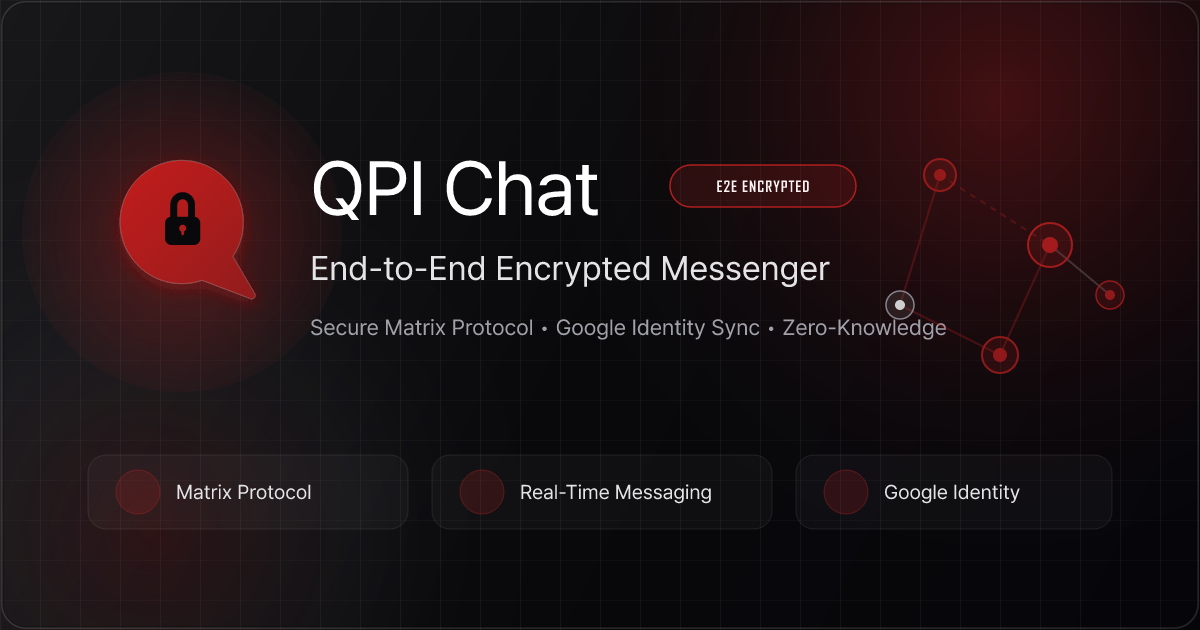
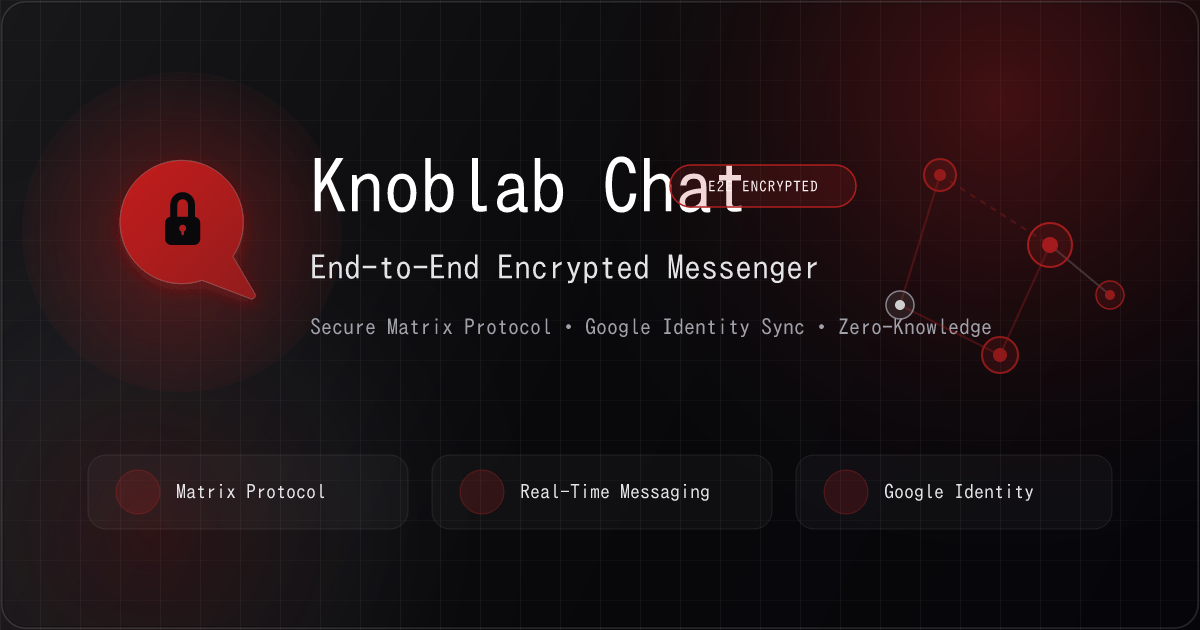
chore: remove branding
- Replaced "QPI Chat" and "QPI" with generic "Knoblab Chat" and "Knoblab" across the repository.
- Updated text in `index.html`, `manifest.json`, components (`Sidebar.tsx`, `Auth.tsx`, `Dashboard.tsx`), hooks, and README.
- Modified SVG branding images and regenerated corresponding PNG icons.

diff --git a/index.html b/index.html
@@ -8,22 +8,22 @@
   <link rel="manifest" href="/manifest.json" />
   <meta name="viewport" content="width=device-width, initial-scale=1.0" />
   <meta name="theme-color" content="#09090b" />
-  <title>QPI Chat — End-to-End Encrypted Messenger</title>
+  <title>Knoblab Chat — End-to-End Encrypted Messenger</title>
 
   <!-- Open Graph / Facebook / KakaoTalk / Slack / Discord -->
   <meta property="og:type" content="website" />
-  <meta property="og:site_name" content="QPI Chat" />
-  <meta property="og:title" content="QPI Chat — End-to-End Encrypted Messenger" />
+  <meta property="og:site_name" content="Knoblab Chat" />
+  <meta property="og:title" content="Knoblab Chat — End-to-End Encrypted Messenger" />
   <meta property="og:description"
     content="Secure, real-time Matrix protocol messenger and zero-knowledge encryption." />
   <meta property="og:image" content="/og-image.svg" />
   <meta property="og:image:width" content="1200" />
   <meta property="og:image:height" content="600" />
-  <meta property="og:image:alt" content="QPI Chat - End-to-End Encrypted Messenger" />
+  <meta property="og:image:alt" content="Knoblab Chat - End-to-End Encrypted Messenger" />
 
   <!-- Twitter / X Card -->
   <meta name="twitter:card" content="summary_large_image" />
-  <meta name="twitter:title" content="QPI Chat — End-to-End Encrypted Messenger" />
+  <meta name="twitter:title" content="Knoblab Chat — End-to-End Encrypted Messenger" />
   <meta name="twitter:description"
     content="Secure, real-time Matrix protocol messenger and zero-knowledge encryption." />
   <meta name="twitter:image" content="/og-image.svg" />

diff --git a/src/pages/Auth.tsx b/src/pages/Auth.tsx
@@ -40,7 +40,7 @@ export const Auth: React.FC = () => {
       body: JSON.stringify({
         username,
         password: pass,
-        initial_device_display_name: 'QPI Chat Web'
+        initial_device_display_name: 'Knoblab Chat Web'
       })
     });
 
@@ -60,7 +60,7 @@ export const Auth: React.FC = () => {
       body: JSON.stringify({
         username,
         password: pass,
-        initial_device_display_name: 'QPI Chat Web',
+        initial_device_display_name: 'Knoblab Chat Web',
         auth: {
           type: 'm.login.dummy',
           session: session
@@ -181,7 +181,7 @@ export const Auth: React.FC = () => {
       <div className="pdf-panel pdf-animate-fade-in" style={{ width: '100%', maxWidth: '400px', padding: 'var(--space-400)', textAlign: 'center', marginBottom: 0 }}>
 
         <div style={{ marginBottom: 'var(--space-300)' }}>
-          <h2 className="pdf-text-heading-32 pdf-text-red" style={{ fontWeight: 800, marginBottom: 'var(--space-050)' }}>QPI Chat</h2>
+          <h2 className="pdf-text-heading-32 pdf-text-red" style={{ fontWeight: 800, marginBottom: 'var(--space-050)' }}>Knoblab Chat</h2>
           <p className="pdf-text-copy-14 pdf-text-muted">
             End-to-End Encrypted Messenger
           </p>

diff --git a/src/pages/Dashboard.tsx b/src/pages/Dashboard.tsx
@@ -65,7 +65,7 @@ export const Dashboard: React.FC = () => {
         <header className="pdf-mobile-header">
           <div className="pdf-flex-row pdf-items-center" style={{ gap: '8px' }}>
             <div className="pdf-text-heading-24 pdf-text-red" style={{ letterSpacing: '-0.02em', fontWeight: 800, fontSize: '1.2rem', display: 'flex', alignItems: 'center', gap: '6px' }}>
-              QPI
+              Knoblab
               <span style={{ fontSize: '13px', fontWeight: 600, color: 'var(--color-text-primary)' }}>{getMobileHeaderTitle()}</span>
             </div>
             <div style={{ display: 'inline-flex', alignItems: 'center', gap: '4px', padding: '2px 8px', borderRadius: '12px', background: 'var(--color-bg-tertiary)', border: '1px solid var(--color-border-default)', fontSize: '11px', fontWeight: 600, color: 'var(--color-text-secondary)' }} title="Matrix 종단간 암호화(E2EE) 보안 적용">

diff --git a/src/components/dashboard/Sidebar.tsx b/src/components/dashboard/Sidebar.tsx
@@ -22,7 +22,7 @@ export const Sidebar: React.FC<SidebarProps> = ({ onOpenProfile }) => {
     <aside className="pdf-sidebar">
       {/* Header */}
       <div style={{ padding: 'var(--space-200)', borderBottom: '1px solid var(--color-border-default)', display: 'flex', justifyContent: 'space-between', alignItems: 'center' }}>
-        <div className="pdf-text-heading-24 pdf-text-red" style={{ letterSpacing: '-0.02em', fontWeight: 800 }}>QPI Chat</div>
+        <div className="pdf-text-heading-24 pdf-text-red" style={{ letterSpacing: '-0.02em', fontWeight: 800 }}>Knoblab Chat</div>
         <div className="pdf-flex-row pdf-gap-100">
           <button 
             onClick={onOpenProfile}

diff --git a/src/hooks/useNotifications.ts b/src/hooks/useNotifications.ts
@@ -21,7 +21,7 @@ export const useNotifications = (selectedRoomId: string | null) => {
     if (!client) return;
 
     let titleInterval: ReturnType<typeof setInterval> | null = null;
-    const originalTitle = 'QPI Chat';
+    const originalTitle = 'Knoblab Chat';
 
     const playAlertSound = () => {
       try {

diff --git a/server/README.md b/server/README.md
@@ -1,4 +1,4 @@
-# 🎬 QPI Messenger Video Upload & Streaming Architecture
+# 🎬 Knoblab Messenger Video Upload & Streaming Architecture
 
 이 디렉토리(`server/`) 및 프론트엔드 시스템은 **대용량 동영상 업로드(최대 45MB), 저부하 HDD 파이프라인, 고성능 스트리밍 서빙**을 위해 지시하신 4대 가이드라인을 100% 만족하도록 설계 및 구현되었습니다.
 
